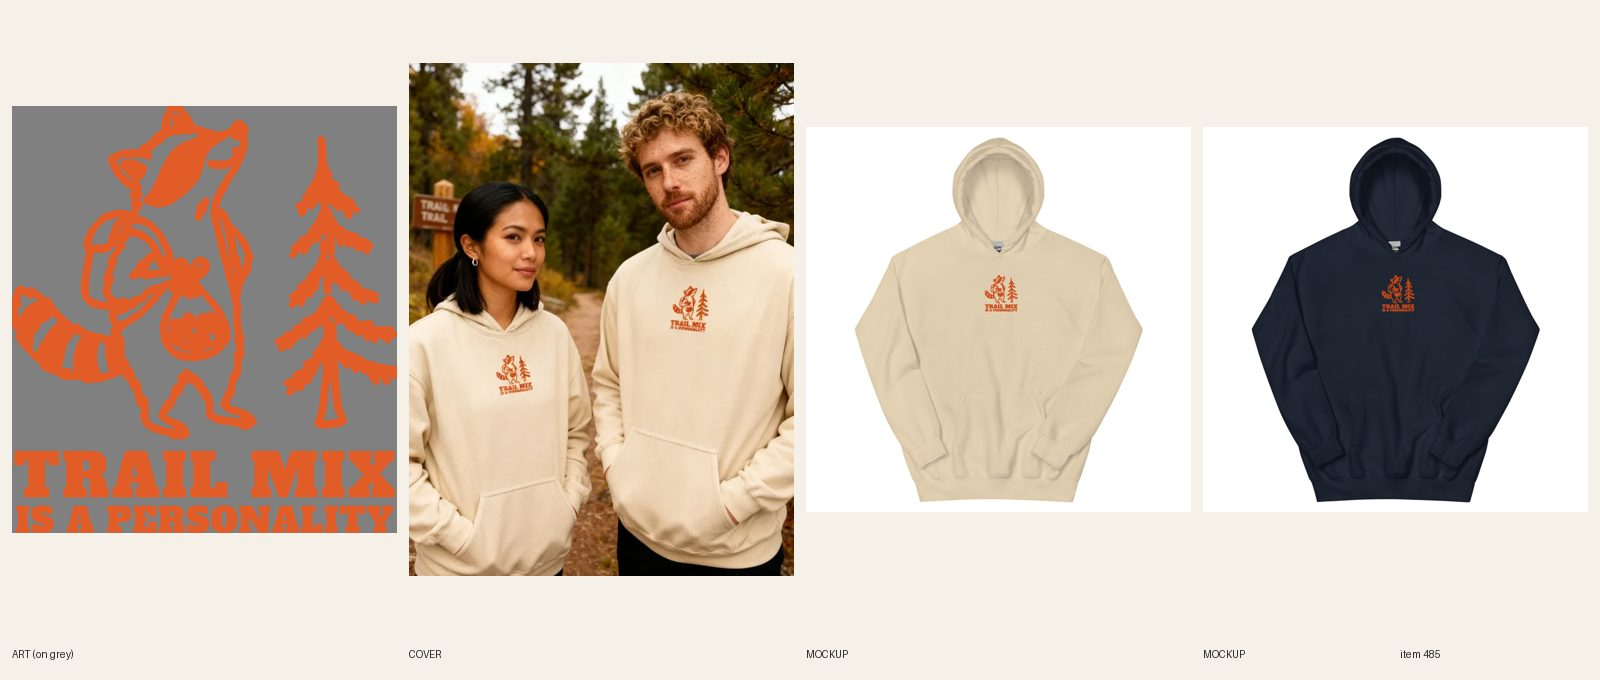
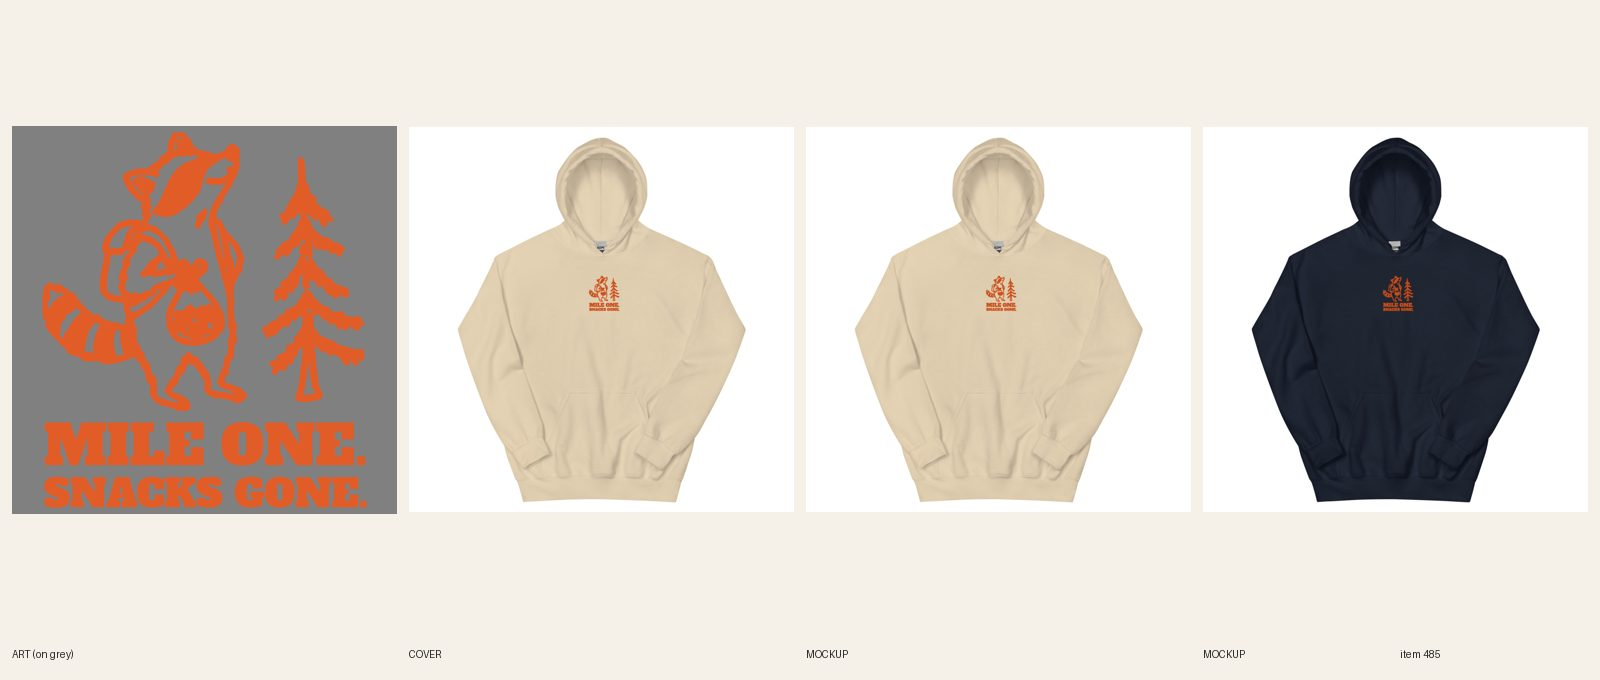
[B] review 485 Mile One Snacks Gone embroidered raccoon hoodie (line + type redo)

Changed region(s): [[0.0, 0.0926, 0.5, 0.8647], [0.5938, 0.4015, 0.6562, 0.4632], [0.8438, 0.4324, 0.9062, 0.4632]]

diff --git a/docs/pipeline/485-embroidered-hoodie-trail-mix-is-a-personality.md b/docs/pipeline/485-embroidered-hoodie-trail-mix-is-a-personality.md
@@ -1,4 +1,5 @@
 status: BUILDING [B] 2026-10-20 06:05
+status: REVIEW
 shopify: gid://shopify/Product/15364148101424
 lane: B
 type: new
@@ -33,3 +34,4 @@ kd: 41
 - 2026-10-17 21:13 UTC builder [B]: synced 12/12. REVIEW. Sheet docs/review/485.jpg.
 - 2026-10-17 22:39 UTC director: APPROVED, LIVE. ACTIVE + Online Store, Headless and Google & YouTube; audit --handle PASS (0 warn). Copy polished by the director first (R8: keyword counts, superlatives, false claims).
 - 2026-10-18 17:22 UTC director: QUALITY RESET grade C (new line + type), REDO. The product stays ACTIVE (same handle, URL, title keyword). 1. Line (R3.12, quality-reset 'Lines'): "TRAIL MIX / IS A PERSONALITY": Mild "X is a personality" template; no twist. Write 5 candidates, keep the one a stranger laughs at in 3 seconds without backstory; kill lines that only describe the picture; if none of the 5 is funny, PARK it. 2. Quality reset type bar (docs/backlog/quality-reset.md, 'The new bar'): headline at least 90% of the art width, heavy, colors pulled from the art; second line at least 45% of the headline's height, never a thin script on a dark or mid garment; use the lettering as a shape (arch, stacked lockup, words breaking into the art), not a plain bar above and a script line below; no font used on more than 1 in 6 of the last 30 designs. 3. Keep the art if it carries the new line, else one new illustration (R4/R5). New print means a new cover per R6.10, copy line one rewritten for the new joke (R8.3), and a fresh review sheet (R7.7). While quality-reset.md says PAUSED, only lane A builds, and only the samples step 2 names.
+- 2026-10-20 14:05 UTC builder [B]: REDO 485 (C grade, line + type) done in place (stays ACTIVE, handle unchanged; title now "Unisex Embroidered – Raccoon Mile One, Snacks Gone Hoodie"). 5 candidates: "MILE ONE. / SNACKS GONE."; "Trail Mix Is A Personality" (old template); "Packed For Four Miles. Ate It In One."; "Hiking Is Just Walking With Snacks"; "Sorry, I Was Foraging". Kept MILE ONE. / SNACKS GONE. (a hiker's honest pace, the raccoon with the bag is the proof; 3 seconds). Same raccoon + pine thread art, new lettering only (no fal, $0): Alfa Slab caps on two lines under the art, emb-prep 3.37 x 3.89 in (inside the 4 x 4 in limit), thinnest stroke 1.66 mm, SNACKS GONE. capitals about 0.36 in (over the 0.3 in minimum), MILE ONE. about 0.45 in. One thread #E25C27 burnt orange on both colors (as before; reads on Sand and Navy). File 1090198408, 12/12 synced on the new embroidery_chest_center file, back logo kept. Front + back mockups replaced in place, alts, title, SEO, copy, FAQs updated (ink stays burnt orange). Phone-size read: MILE ONE. reads; SNACKS GONE. is small at 400 px (the 4 in embroidery limit), director please judge. Cover: handle added to retired-covers.json. audit --handle PASS 0 warn. Sheet docs/review/485.jpg.

diff --git a/docs/intake-log.md b/docs/intake-log.md
@@ -2,6 +2,7 @@ RUNNING lane B since 2026-10-20 05:30 UTC
 2026-10-20 06:05 UTC — [B] Builder run: redid #440 round 2 (OUT OF OFFICE. / IN THE MUD., punch widened to headline width (Navy + Dust; Dust file copied as -sand name). headline 3600 px / punch 3600 px, FW 1550 TOP 0 on the oversized blank (9.8 in tall, catalog 892)). REVIEW. fal $0.
 2026-10-20 06:04 UTC — [B] Builder run: redid #362 round 2 (MISSED THE PLAY. / SEEDS WERE GOOD., punch widened to headline width. headline 3600 px / punch 3600 px). REVIEW. fal $0.
 2026-10-20 06:03 UTC — [B] Builder run: redid #404 round 2 (MAIN QUEST / POSTPONED., punch widened to headline width. headline 3593 px / punch 3593 px). REVIEW. fal $0.
+2026-10-20 06:08 UTC — [B] Builder run: redid #485 Unisex Embroidered raccoon hoodie (line + type: MILE ONE. / SNACKS GONE., same raccoon thread art, burnt orange thread, 12/12 synced). REVIEW. fal $0.
 2026-10-20 05:46 UTC — [B] Builder run: redid #280 Women's Thanksgiving pumpkin hoodie round 2 (R3.7.8: punch THE WARM-UP. widened to headline width, 3600/3600 px, Navy + Sand, 12/12 synced). REVIEW. fal $0.
 2026-10-20 05:53 UTC — [E] Builder run: redid #438 Women's Panda zip hoodie (line + type: ENDANGERED / MORNING PERSON., new sleepy-panda-in-bed art, Bowlby One, Navy + Ash dark-ink file, new head chest copy, 12/12 synced). REVIEW. fal $0.04.
 2026-10-20 05:57 UTC — [B] Builder run: redid #473 Unisex Embroidered hoodie (line + type: CIRCLE / BACK / NEVER., new stacked lettering in thread, Sand #333366 + Navy #FFFFFF, 12/12 synced). REVIEW. fal $0.
